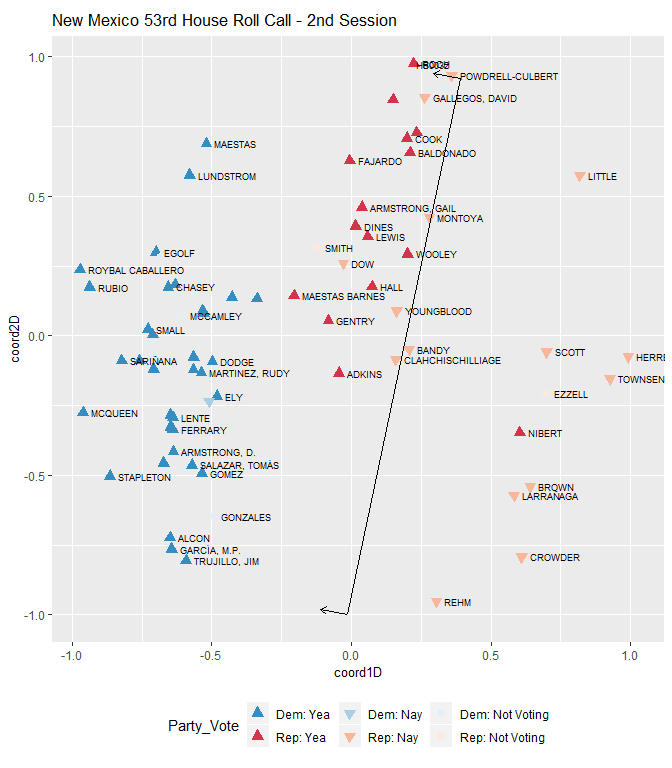
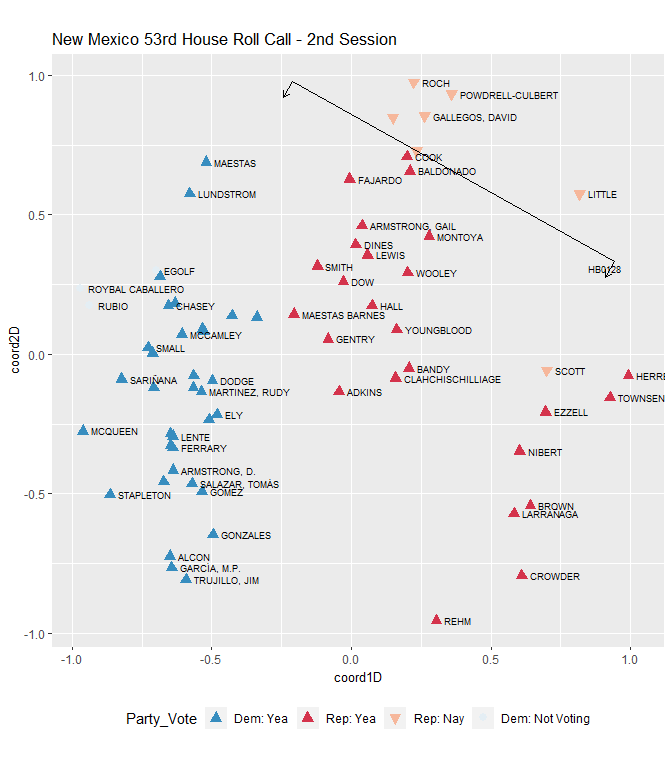
re

diff --git a/README.md b/README.md
@@ -48,7 +48,7 @@ resultd2 <- wnominate::wnominate (datRC,
                        dims=2, 
                        minvotes=20,
                        lop=0.025,trials=3, 
-                       polarity=c(1,1),
+                       polarity=c(30,48),
                        verbose=FALSE)
 ## 
 ## Preparing to run W-NOMINATE...
@@ -81,7 +81,7 @@ resultd2 <- wnominate::wnominate (datRC,
 ## 
 ## 
 ## W-NOMINATE estimation completed successfully.
-## W-NOMINATE took 2.42 seconds to execute.
+## W-NOMINATE took 2.41 seconds to execute.
 ```
 
 ### Plot two-dimensional model
@@ -139,19 +139,19 @@ The function returns cutline coordinates along with vote polarity.
 ``` r
 head(with_cuts)
 ##          Bill_ID        x_1         x_2        y_1        y_2 pols
-## 1:        HB0002  0.8715717  0.67587271 -0.4902681  0.7370184   -1
-## 2: HB0002HCONCUR  0.9903836 -0.47974198 -0.1383488  0.8774096   -1
-## 3:        HB0003  0.8715717  0.67587271 -0.4902681  0.7370184   -1
-## 4:        HB0026 -0.3645179 -0.97765640 -0.9311964 -0.2102093    1
-## 5:        HB0027 -0.3375543 -0.35960803 -0.9413061  0.9331035    1
+## 1:        HB0002  0.8715717  0.67587271 -0.4902681  0.7370184    1
+## 2: HB0002HCONCUR  0.9903836 -0.47974198 -0.1383488  0.8774096    1
+## 3:        HB0003  0.8715717  0.67587271 -0.4902681  0.7370184    1
+## 4:        HB0026 -0.3645179 -0.97765640 -0.9311964 -0.2102093   -1
+## 5:        HB0027 -0.3375543 -0.35960803 -0.9413061  0.9331035   -1
 ## 6:        HB0032  0.3891161 -0.01486458  0.9211887 -0.9998895   -1
-##          x_1a        y_1a       x_2a       y_2a
-## 1:  0.9329360 -0.48048319  0.7372370  0.7468033
-## 2:  1.0411715 -0.06484255 -0.4289541  0.9509159
-## 3:  0.9329360 -0.48048319  0.7372370  0.7468033
-## 4: -0.4005673 -0.96185329 -1.0137057 -0.2408663
-## 5: -0.4312748 -0.94240875 -0.4533285  0.9320008
-## 6:  0.2930622  0.94138776 -0.1109185 -0.9796905
+##          x_1a       y_1a       x_2a       y_2a
+## 1:  0.8102073 -0.5000531  0.6145084  0.7272334
+## 2:  0.9395956 -0.2118551 -0.5305299  0.8039033
+## 3:  0.8102073 -0.5000531  0.6145084  0.7272334
+## 4: -0.3284686 -0.9005394 -0.9416070 -0.1795524
+## 5: -0.2438338 -0.9402034 -0.2658876  0.9342061
+## 6:  0.2930622  0.9413878 -0.1109185 -0.9796905
 ```
 
 Plot legislators with cutting lines.
@@ -188,7 +188,7 @@ ggplot () +
 Cutting line selections.
 
 ``` r
-select_cuts <- c('HB0032')
+select_cuts <- c('HB0128')
 
 sub <- nmlegisdatr::nml_rollcall %>%
   filter(Bill_ID %in% select_cuts) %>%
@@ -237,7 +237,8 @@ View multiple roll calls.
 
 ``` r
 select_cuts <- c('HB0032', 'HB0064', 'HB0100', 'HB0049', 'HB0325', 'HJM010',
-                 'HM106', 'SB0079', 'HB0002', 'HB0026', 'HB0098', 'HB0151')
+                 'HM106', 'SB0079', 'HB0002', 'HB0026', 'HB0098', 'HB0151',
+                 'HM009', 'HM54', 'SB0178', 'SB0189', 'HB0201')
 
 sub <- nmlegisdatr::nml_rollcall %>%
   filter(Bill_ID %in% select_cuts) %>%
